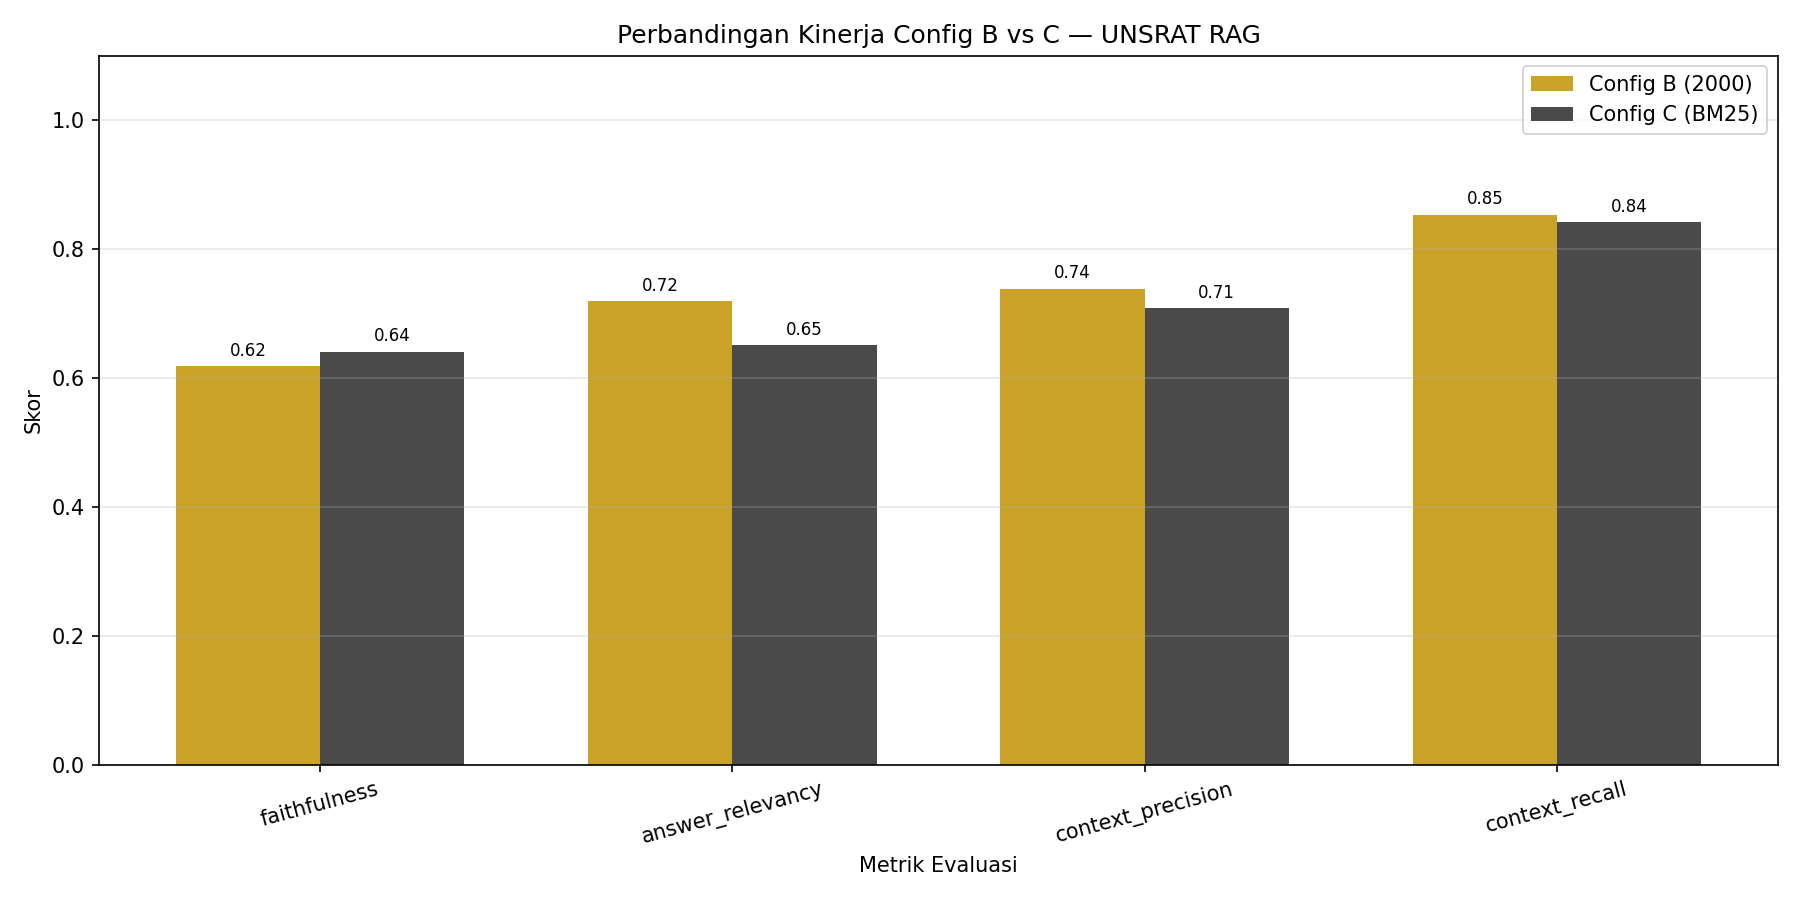
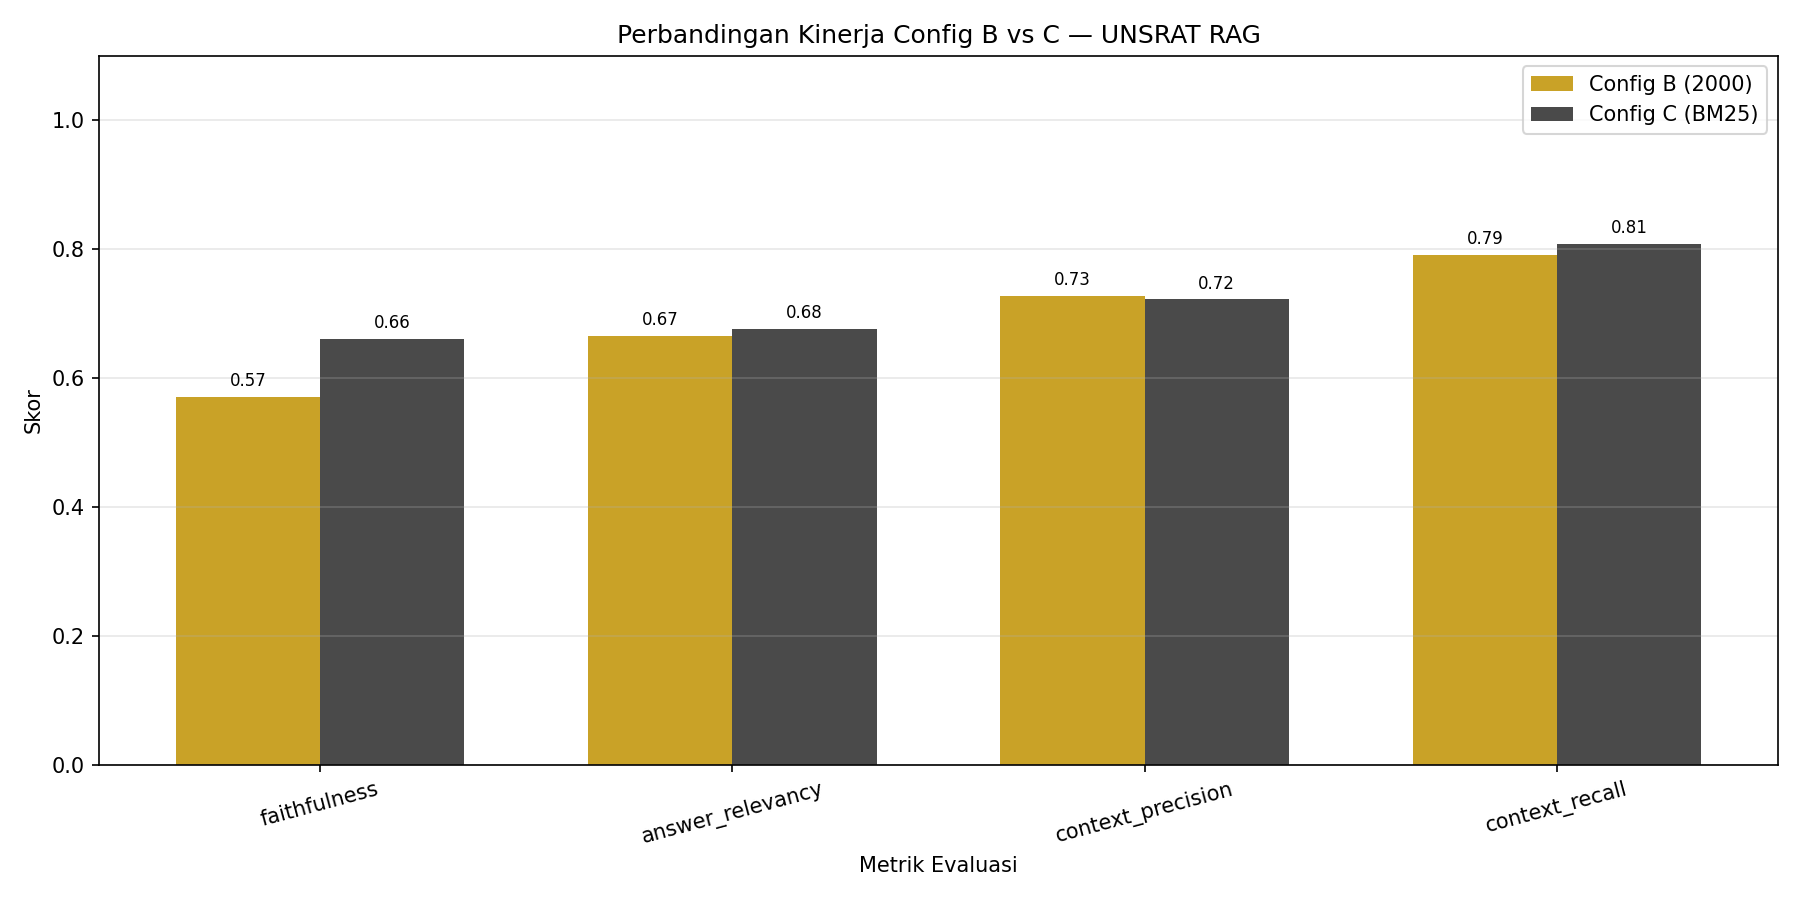
chore: fix dev page reference error, update run manifest, and archive evaluation runs

diff --git a/static/js/dev.js b/static/js/dev.js
@@ -18,6 +18,7 @@ document.addEventListener("DOMContentLoaded", () => {
     let logInterval = null;
     let runsData = [];
     let logLinesData = [];
+    let systemStatus = null;
 
     // Selectors
     const keyGoogleStatus = document.getElementById("key-google-status");
@@ -54,6 +55,7 @@ document.addEventListener("DOMContentLoaded", () => {
             const res = await fetch("/api/dev/status");
             if (!res.ok) throw new Error("Gagal mengambil status sistem");
             const data = await res.json();
+            systemStatus = data;
 
             // API Keys
             if (keyGoogleStatus) {
